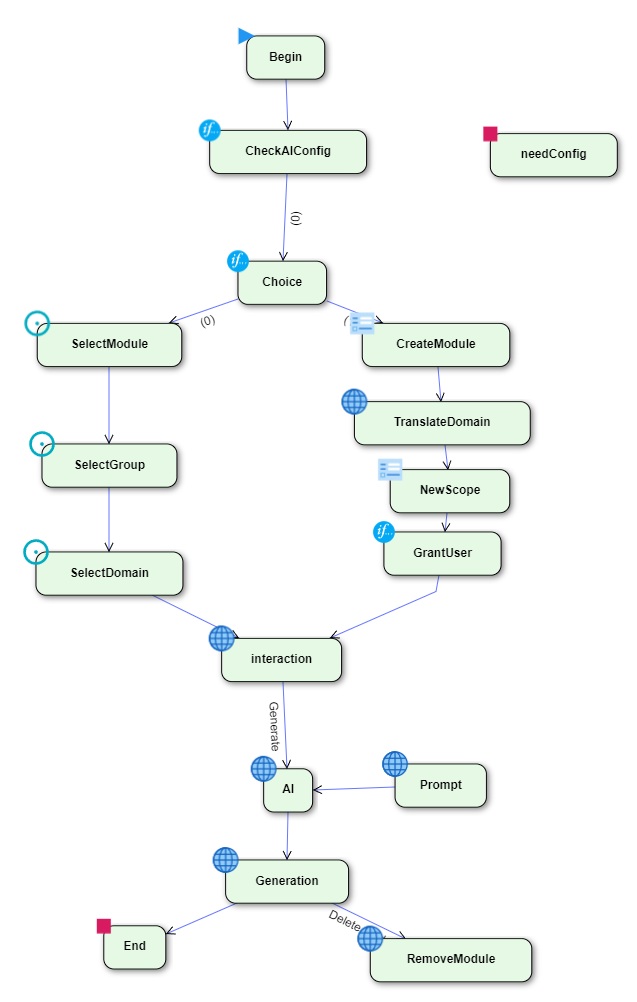
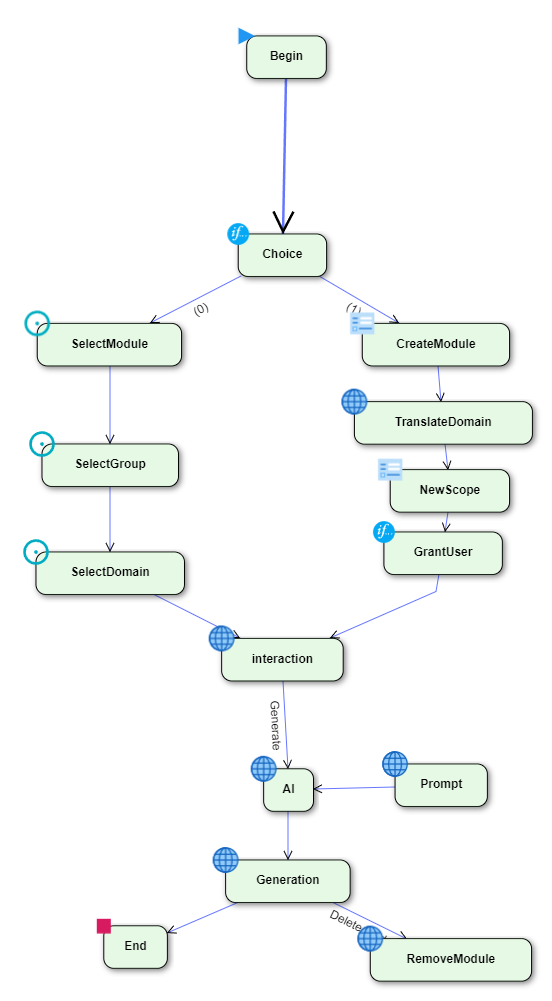
improved monitoring

diff --git a/resources/ObjectExternal/AiMonitoring/FRA/HTML.html b/resources/ObjectExternal/AiMonitoring/FRA/HTML.html
@@ -18,7 +18,7 @@
             {{/right_column}}
         </div>
     </div>
-
+	{{#providerFields.length}}
     <div class="provider-fields-container container">
         <h1>Paramètres spécifiques pour {{provider}}</h1>
         <div class="provider-fields">
@@ -30,7 +30,7 @@
             {{/providerFields}}
         </div>
     </div>
-    
+    {{/providerFields.length}}    
     <div id="ping_banner" class="ping-banner ">
     </div>
     <script>

diff --git a/resources/ObjectExternal/AiMonitoring/HTML.html b/resources/ObjectExternal/AiMonitoring/HTML.html
@@ -18,7 +18,7 @@
             {{/right_column}}
         </div>
     </div>
-
+    {{#providerFields}}
     <div class="provider-fields-container container">
         <h1>Specific Parameters for {{provider}}</h1>
         <div class="provider-fields">
@@ -30,7 +30,7 @@
             {{/providerFields}}
         </div>
     </div>
-    
+    {{/providerFields}}
     <div id="ping_banner" class="ping-banner ">
     </div>
     <script>

diff --git a/src/com/simplicite/workflows/AIBySimplicite/AIModuleCreate.java b/src/com/simplicite/workflows/AIBySimplicite/AIModuleCreate.java
@@ -1,5 +1,7 @@
 package com.simplicite.workflows.AIBySimplicite;
 
+import static org.mockito.ArgumentMatchers.booleanThat;
+
 import java.util.*;
 
 
@@ -47,8 +49,6 @@ public class AIModuleCreate extends Processus {
 	private static final String END_SCRIPT="</script>";
 	private static final String DOMAIN="Domain";
 	private boolean displayPrefixWarning = false; 
-
-	
 	
 	/**
 	 * This method is used to generate the HTML content for the chat bot.
@@ -377,6 +377,7 @@ public class AIModuleCreate extends Processus {
 	}
 	@Override
 	public Message preValidate(ActivityFile context) {
+		
 		if(ACTIVITY_CREATE_MODULE.equals(context.getActivity().getStep()) && !displayPrefixWarning){
 			Object prefix = getContext(getActivity(ACTIVITY_CREATE_MODULE)).getDataValue(FIELD, MDL_PREFIX_FIELD); 
 			ObjectDB obj = getGrant().getTmpObject("Module");

diff --git a/src/com/simplicite/commons/AIBySimplicite/AITools.java b/src/com/simplicite/commons/AIBySimplicite/AITools.java
@@ -435,8 +435,13 @@ public class AITools implements java.io.Serializable {
                 response.append(line);
             }
             AppLog.info("AI API error :["+responseCode+"]"+response.toString(),g);
-            JSONObject error = new JSONObject(response.toString());
-            String errorMessage = error.optJSONObject(ERROR_KEY).optString(MESSAGE_KEY,"no message");
+            String errorMessage;
+            try{
+                JSONObject error = new JSONObject(response.toString());
+                errorMessage = error.optJSONObject(ERROR_KEY).optString(MESSAGE_KEY,"no message");
+            }catch(JSONException e){
+                errorMessage = response.toString();
+            }
             AppLog.info("AI API error :["+responseCode+"]: "+errorMessage,g);
             connection.disconnect();
             

diff --git a/README.md b/README.md
@@ -139,7 +139,6 @@ Auomatic model generation process
 
 * `Begin`: 
 * `End`: 
-* `needConfig`: 
 * `Choice`: 
 * `CreateModule`: 
 * `TranslateDomain`: 
@@ -153,7 +152,6 @@ Auomatic model generation process
 * `AI`: AI for modeling
 * `Generation`: Module generation based on ia feedback
 * `RemoveModule`: Remove module
-* `CheckAIConfig`: 
 
 `AiSettingsProcess` business process definition
 -----------------------------------------------
